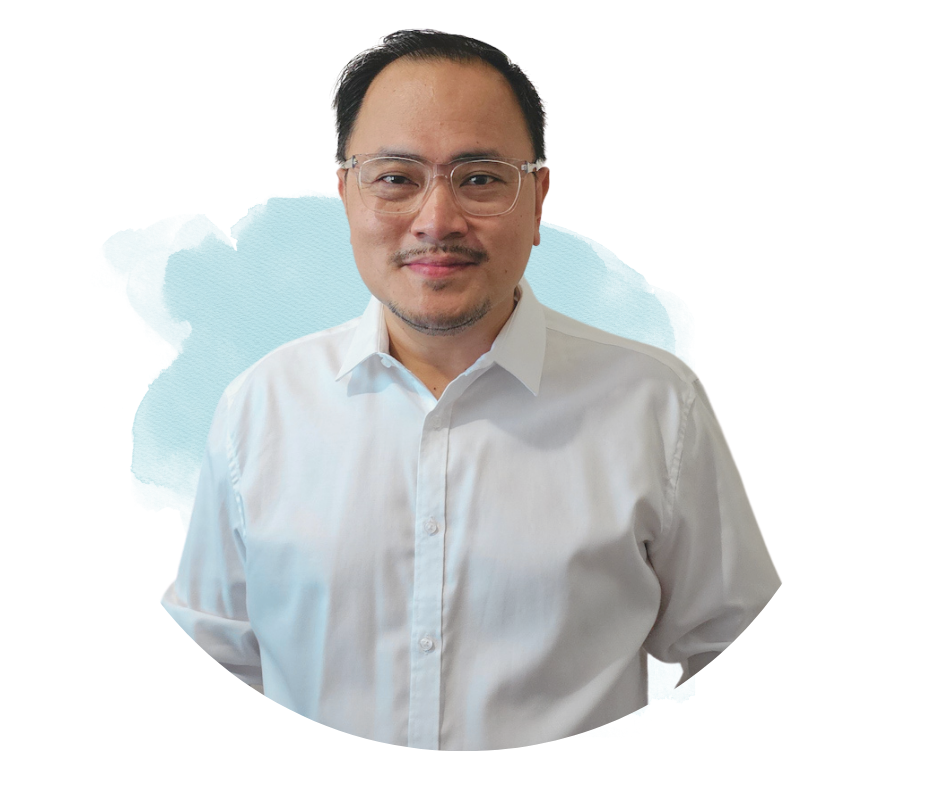
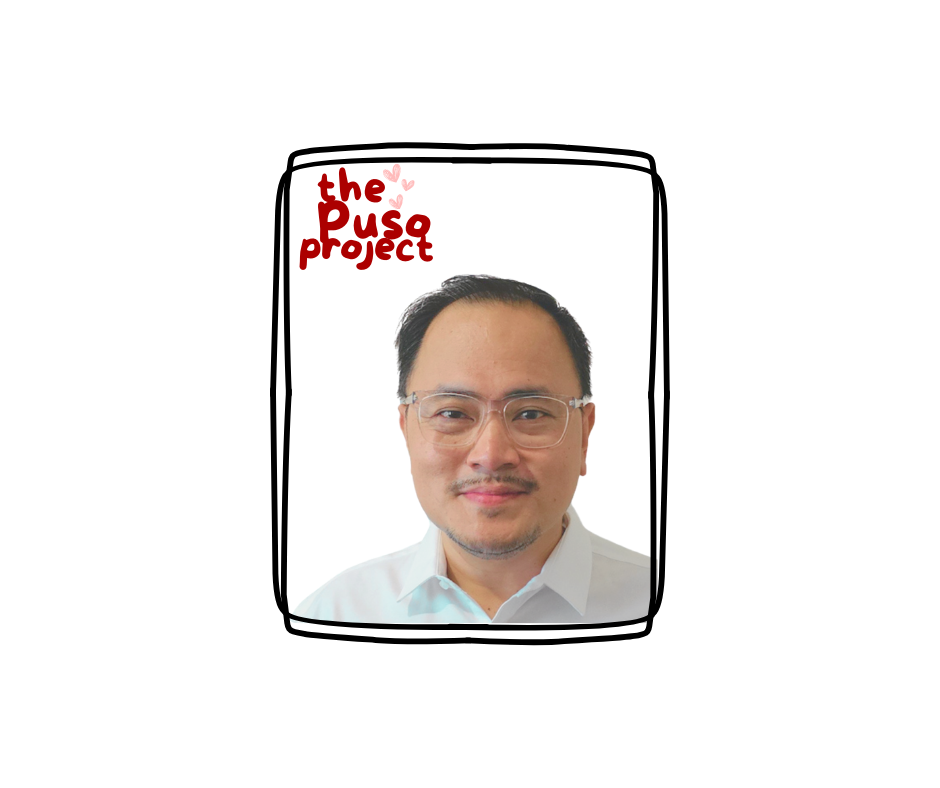
Added JO as a mentor

diff --git a/templates/mentors.html b/templates/mentors.html
@@ -5,41 +5,67 @@
 {% block content %}
     <!-- Mentors Grid -->
     <div id="mentors" class="container mt-5">
-        <h2 class="text-center mb-4">Our Mentors</h2>
+        <h2 class="text-center mb-5">Our Mentors</h2>
         <div class="row">
             <!-- Mentor 1 -->
-            <div class="col-md-4 mb-4">
-                <div class="card">
-                    <img src="{{ url_for('static', filename='TPP-Engramar.png') }}" class="card-img-top" alt="Mentor 1">
-                    <div class="card-body">
-                        <h5 class="card-title">Engramar Bollas</h5>
-                        <p class="card-text">Mentor | Python for Everybody Course</p>
-                        <p class="card-text">Fee: P0.00 per hour</p>
-                        <p class="card-text"><a href="https://koalendar.com/e/meet-with-code-sydney" target="_blank">Book a session</a></p>
-                        <p class="card-text"><a href="https://linkedin.com/in/engramarbollas" target="_blank">
-                            <i class="fab fa-linkedin fa-2x"></i></a>
-                        </p>
+            <div class="col-md-4 mb-5">
+                <div class="card border-0 shadow-sm h-100">
+                    <div class="text-center">
+                        <img src="{{ url_for('static', filename='TPP-Engramar.png') }}" class="img-fluid" style="width: 500px; max-width: 100%; height: auto;" alt="Engramar Bollas">
+                    </div>
+                    <div class="card-body text-center">
+                        <h5 class="card-title mt-3">Engramar Bollas</h5>
+                        <p class="text-muted mb-3">Python for Everybody Course | Intro to Flask</p>
+                        <div class="d-flex justify-content-center mb-3">
+                            <a href="https://koalendar.com/e/meet-with-code-sydney" target="_blank" class="btn btn-primary btn-sm me-2">Book a session</a>
+                            <a href="https://linkedin.com/in/engramarbollas" target="_blank" class="btn btn-outline-primary btn-sm">
+                                <i class="fab fa-linkedin"></i>
+                            </a>
+                        </div>
+                        <small class="text-muted">Fee: P0.00 per hour</small>
                     </div>
                 </div>
             </div>
 
             <!-- Mentor 2 -->
-            <div class="col-md-4 mb-4">
-                <div class="card">
-                    <img src="{{ url_for('static', filename='TPP-Jun.png') }}" class="card-img-top" alt="Mentor 1">
-                    <div class="card-body">
-                        <h5 class="card-title">Jun Miano</h5>
-                        <p class="card-text">Mentor | Python for Everybody Course</p>
-                        <p class="card-text">Fee: P0.00 per hour</p>
-                        <p class="card-text"><a href="https://koalendar.com/e/py4e-with-junmiano" target="_blank">Book a session</a></p>
-                        <p class="card-text"><a href="https://www.linkedin.com/in/junmiano1202/" target="_blank">
-                            <i class="fab fa-linkedin fa-2x"></i></a>
-                        </p>
+            <div class="col-md-4 mb-5">
+                <div class="card border-0 shadow-sm h-100">
+                    <div class="text-center">
+                        <img src="{{ url_for('static', filename='TPP-Jun.png') }}" class="img-fluid" style="width: 500px; max-width: 100%; height: auto;" alt="Jun Miano">
+                    </div>
+                    <div class="card-body text-center">
+                        <h5 class="card-title mt-3">Jun Miano</h5>
+                        <p class="text-muted mb-3">Python for Everybody Course</p>
+                        <div class="d-flex justify-content-center mb-3">
+                            <a href="https://koalendar.com/e/py4e-with-junmiano" target="_blank" class="btn btn-primary btn-sm me-2">Book a session</a>
+                            <a href="https://www.linkedin.com/in/junmiano1202/" target="_blank" class="btn btn-outline-primary btn-sm">
+                                <i class="fab fa-linkedin"></i>
+                            </a>
+                        </div>
+                        <small class="text-muted">Fee: P0.00 per hour</small>
                     </div>
                 </div>
             </div>
             
-            <!-- Add more mentors as needed -->
+            <!-- Mentor 3 -->
+            <div class="col-md-4 mb-5">
+                <div class="card border-0 shadow-sm h-100">
+                    <div class="text-center">
+                        <img src="{{ url_for('static', filename='TPP-JO.png') }}" class="img-fluid" style="width: 500px; max-width: 100%; height: auto;" alt="Jose Reyes">
+                    </div>
+                    <div class="card-body text-center">
+                        <h5 class="card-title mt-3">Jose '𝒥𝒪' Reyes</h5>
+                        <p class="text-muted mb-3">AI | Machine Learning</p>
+                        <div class="d-flex justify-content-center mb-3">
+                            <a href="https://tidycal.com/jaeyow/30-minute-catch-up" target="_blank" class="btn btn-primary btn-sm me-2">Book a session</a>
+                            <a href="https://www.linkedin.com/in/joreyes/" target="_blank" class="btn btn-outline-primary btn-sm">
+                                <i class="fab fa-linkedin"></i>
+                            </a>
+                        </div>
+                        <small class="text-muted">Fee: P0.00 per hour</small>
+                    </div>
+                </div>
+            </div>
         </div>
     </div>
 {% endblock %}

diff --git a/templates/base.html b/templates/base.html
@@ -62,14 +62,11 @@
                     <li class="nav-item mx-2"><a class="nav-link" href="{{ url_for('startyourjourney') }}">Start Your Journey</a></li>
                     <li class="nav-item mx-2"><a class="nav-link" href="{{ url_for('datamasters') }}">Data Masters</a></li>
                     <li class="nav-item mx-2"><a class="nav-link" href="{{ url_for('mentors') }}">Mentors</a></li>
-                    <li class="nav-item mx-2"><a class="nav-link" href="{{ url_for('blogs') }}">Blogs</a></li>
-                    <li class="nav-item mx-2"><a class="nav-link" href="{{ url_for('aboutdep') }}">About DEP</a></li>
                 </ul>
                 <ul class="navbar-nav ms-auto">
                     <li class="nav-item mx-2"><a class="nav-link" href="{{ url_for('sandbox') }}">Sandbox</a></li>
                     <li class="nav-item mx-2"><a class="nav-link" href="{{ url_for('developers') }}">Developers</a></li>
-                    <li class="nav-item mx-2"><a class="nav-link" href="{{ url_for('signup') }}">Sign Up</a></li>
-                    <li class="nav-item mx-2"><a class="nav-link" href="{{ url_for('startyourjourney') }}">Login</a></li>
+                    <li class="nav-item mx-2"><a class="nav-link" href="{{ url_for('aboutdep') }}">About DEP</a></li>
                 </ul>
             </div>
         </div>

diff --git a/templates/pusoprojects.html b/templates/pusoprojects.html
@@ -111,11 +111,11 @@
                 </tr>                
                 <tr>
                     <td>2025 Jan</td>
-                    <td>Barangay Appointment App</td>
+                    <td><a href="https://github.com/rowanjacobscode/Dutch-Recognised-sponsors" target="_blank">Barangay Appointment App</a></td>
                     <td>Web App</td>
                     <td>Jun Miano</td>
-                    <td>TBA</td>
-                    <td>To do</td>
+                    <td>Engramar Bollas</td>
+                    <td>Completed</td>
                 </tr>                                  
                 <tr>
                     <td>2025 Jan</td>

diff --git a/README.md b/README.md
@@ -5,7 +5,7 @@
 ## Pre-requisites
 To join, you just need the enough basic knowledge of Python, Flask and GitHub PR Merge process.
 ##### [Step 1 | Python for Everybody](https://citizendev.code.sydney/)
-##### [Step 2 | Intro to Flask](https://prettyprinted.com/introflask/)
+##### [Step 2 | Intro to Flask](https://www.youtube.com/playlist?list=PLXmMXHVSvS-AjwTOtiW1DXFYTgUlrUmHV)
 ##### [Step 3 | Basic GitHub PR Merge Knowledge](https://github.com/dataengineeringpilipinas/thepusoproject/wiki/CitizenDev-%7C-TPP-GitHub-PR-Merge-Flow)
 
 ## TPP Squads
